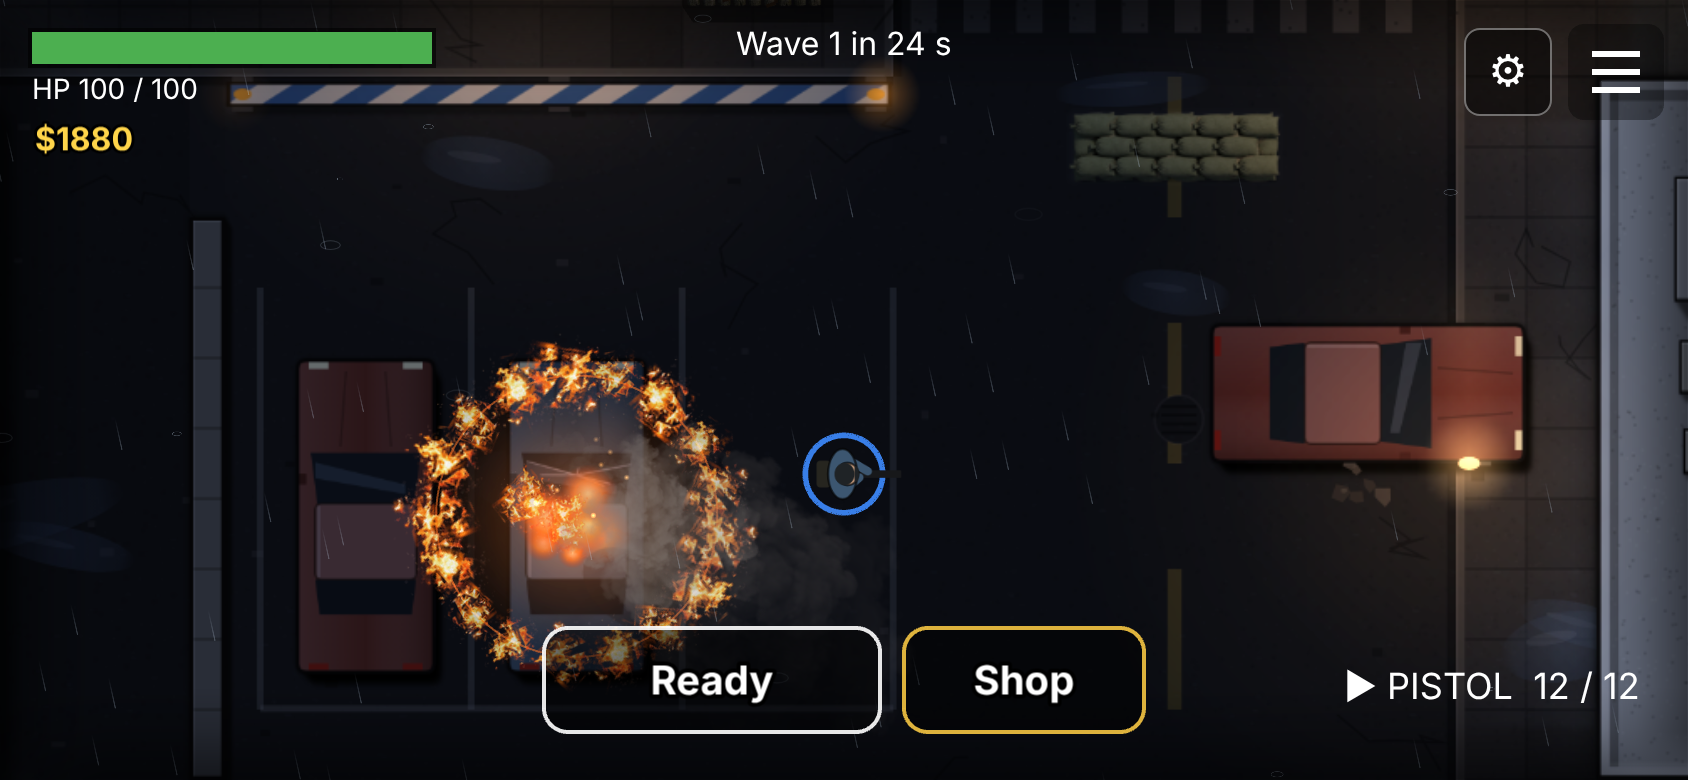
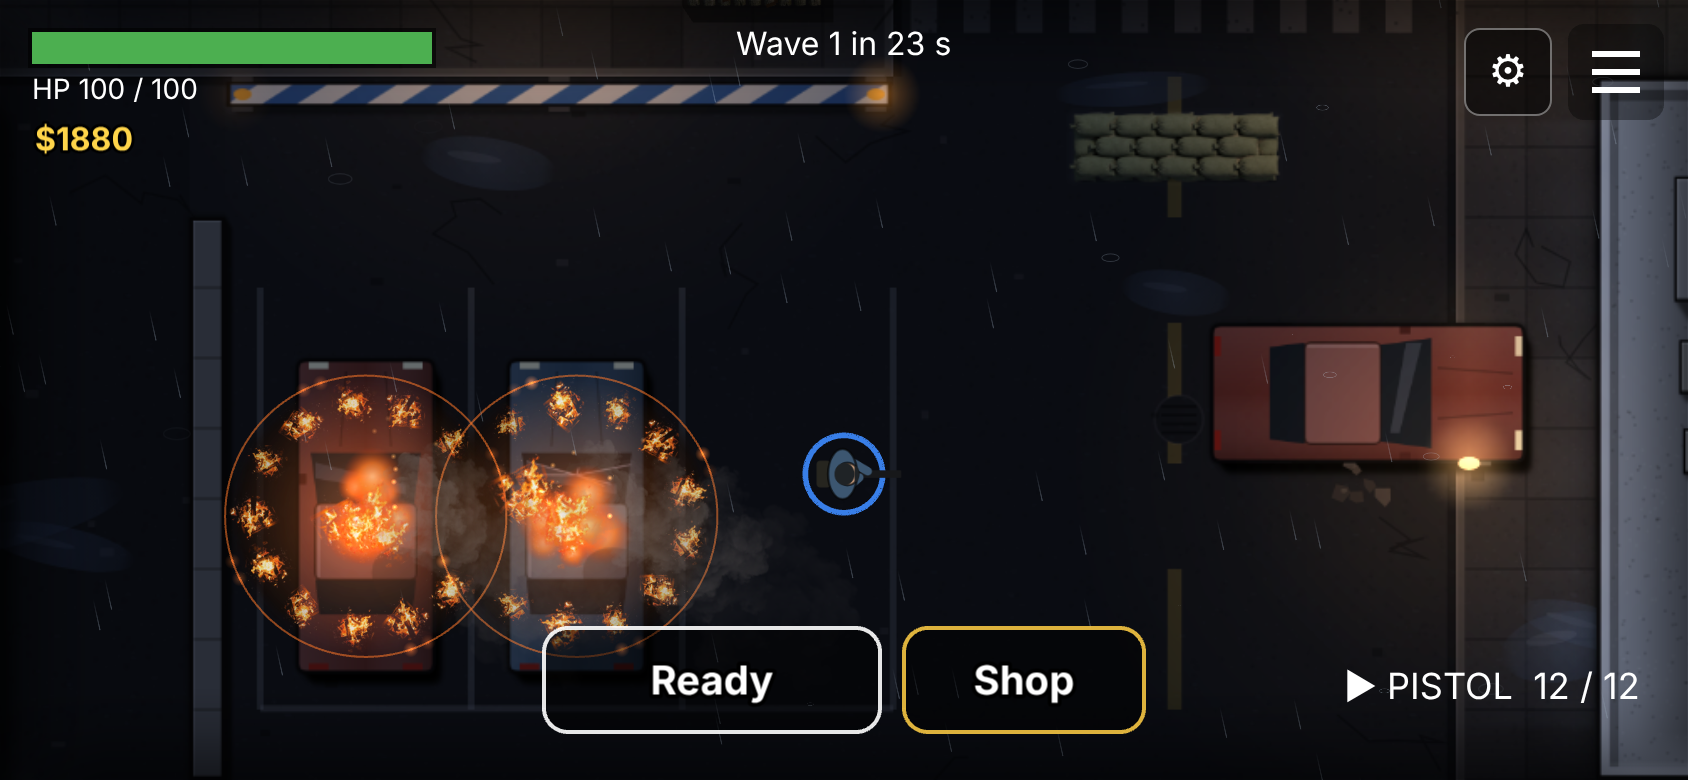
Story 4.11 review fixes: ring flames inside the damage edge, pool from balance, HUD and smoke
- M: ring flames inset so their solid core (at full flicker + damage-tick swell) ends at R;
  core fraction measured by build_sprites.py (objects.json meta.coreFrac), tests on the outer
  edge, ring gaps and touch <=> circleInFire
- L1: barricade sprite pool sized from balance (no throw)
- L2: indexed access in HudScene.drawBurn
- L3: smoke below zombies and survivors, alpha 0.4, puffs up to 3 m
- screenshots re-taken; FPS re-measured

Claude-Session: https://claude.ai/code/session_01CgLgPTkff2Rt3W1ep32G8f

Changed region(s): [[0.1232, 0.4308, 0.4929, 0.8923], [0.5237, 0.0308, 0.5545, 0.0615]]

diff --git a/apps/client/src/render/city/fireRing.test.ts b/apps/client/src/render/city/fireRing.test.ts
@@ -3,18 +3,25 @@ import { circleInFire, loadBalance, type FireRecord } from "@topdown/shared";
 import {
   FIRE_EMBERS,
   RING_FLAMES_MAX,
+  RING_FLAME_CORE_FRAC,
   RING_FLAME_SPACING_M,
   damageTickPulse,
   emberSpot,
   fireRingRadiusM,
   fireRingWidthM,
+  ringFlameCentreRadiusM,
   ringFlameCount,
+  ringFlameMaxCoreM,
+  ringFlameSizeM,
   ringFlameMarksEdge,
   ringFlameSpot,
   strokeFireRings,
 } from "./fireRing";
 
+import objectsJson from "../../../public/assets/atlases/objects.json";
+
 const balance = loadBalance();
+const objectsMeta = (objectsJson as unknown as { meta: { coreFrac: number } }).meta;
 const fire: FireRecord = { name: "f", target: "car", x: 10, y: 8, radiusM: balance.decay.fire.radiusM, stage: 3, index: 0 };
 
 describe("Story 4.8 review M3: the fire ring is the damage edge", () => {
@@ -62,9 +69,11 @@ describe("Story 4.8 review M3: the fire ring is the damage edge", () => {
   });
 });
 
-describe("Story 4.11 (F6): the circle of small flames sits exactly at the damage edge", () => {
-  it("every ring flame is centred on the zone radius, evenly spaced all round", () => {
-    const out = { x: 0, y: 0 };
+describe("Story 4.11 (F6): the circle of small flames ends exactly at the damage edge", () => {
+  const out = { x: 0, y: 0 };
+  const coreAt = (flick: number, pulse: number) => RING_FLAME_CORE_FRAC * ringFlameSizeM(flick, pulse);
+
+  it("review fix: every flame's visible core, at its largest (full flicker + damage-tick swell), ends within 2 cm of R, never past it", () => {
     for (const r of [1, balance.decay.fire.radiusM, 3.5]) {
       const f = { ...fire, radiusM: r };
       const n = ringFlameCount(f);
@@ -72,33 +81,51 @@ describe("Story 4.11 (F6): the circle of small flames sits exactly at the damage
       let sy = 0;
       for (let i = 0; i < n; i++) {
         ringFlameSpot(f, i, n, out);
-        expect(Math.hypot(out.x - f.x, out.y - f.y)).toBeCloseTo(fireRingRadiusM(f), 9);
+        const d = Math.hypot(out.x - f.x, out.y - f.y);
+        let maxOuter = 0;
+        for (const flick of [0, 0.5, 1]) for (const pulse of [0, 0.5, 1]) maxOuter = Math.max(maxOuter, d + coreAt(flick, pulse));
+        expect(maxOuter).toBeLessThanOrEqual(fireRingRadiusM(f) + 0.02);
+        expect(maxOuter).toBeGreaterThanOrEqual(fireRingRadiusM(f) - 0.02); // it still marks the edge
         sx += out.x - f.x;
         sy += out.y - f.y;
       }
-      // evenly spread: the flames' centroid is the fire's centre
-      expect(Math.hypot(sx, sy) / n).toBeLessThan(1e-9);
+      expect(Math.hypot(sx, sy) / n).toBeLessThan(1e-9); // evenly spread round the car
     }
   });
 
-  it("your body touches the flames = you burn: a body reaching a flame's centre is inside the zone (circleInFire), one just short is not", () => {
-    const out = { x: 0, y: 0 };
+  it("review fix: the flames still close the ring (gap between neighbouring cores ≤ 0.8 m at their smallest)", () => {
+    for (const r of [1, balance.decay.fire.radiusM, 3.5]) {
+      const f = { ...fire, radiusM: r };
+      const n = ringFlameCount(f);
+      const chord = 2 * ringFlameCentreRadiusM(f) * Math.sin(Math.PI / n);
+      expect(chord - 2 * coreAt(0, 0)).toBeLessThanOrEqual(0.8);
+    }
+  });
+
+  it("the core fraction covers the art: the build script's measured coreFrac (objects.json) ≤ RING_FLAME_CORE_FRAC", () => {
+    expect(objectsMeta.coreFrac).toBeGreaterThan(0);
+    expect(objectsMeta.coreFrac).toBeLessThanOrEqual(RING_FLAME_CORE_FRAC);
+  });
+
+  it("your body touches the flames = you burn: a body reaching a flame's outer core edge is inside the zone (circleInFire), one just short is not", () => {
     const n = ringFlameCount(fire);
+    const core = ringFlameMaxCoreM();
     for (const r of [balance.player.radiusM, ...Object.values(balance.zombies.types).map((z) => z.radiusM)]) {
       for (let i = 0; i < n; i++) {
         ringFlameSpot(fire, i, n, out);
-        const ux = (out.x - fire.x) / fire.radiusM;
-        const uy = (out.y - fire.y) / fire.radiusM;
-        // body centre outside, its edge 1 mm past the flame centre toward the car: burns
-        expect(circleInFire([fire], out.x + ux * (r - 1e-3), out.y + uy * (r - 1e-3), r)).toBe(true);
-        // its edge 1 mm short of the flame centre: safe
-        expect(circleInFire([fire], out.x + ux * (r + 1e-3), out.y + uy * (r + 1e-3), r)).toBe(false);
+        const d = Math.hypot(out.x - fire.x, out.y - fire.y);
+        const ux = (out.x - fire.x) / d;
+        const uy = (out.y - fire.y) / d;
+        const ex = out.x + ux * core; // the flame's outer visible edge
+        const ey = out.y + uy * core;
+        expect(circleInFire([fire], ex + ux * (r - 1e-3), ey + uy * (r - 1e-3), r)).toBe(true);
+        expect(circleInFire([fire], ex + ux * (r + 0.02 + 1e-3), ey + uy * (r + 0.02 + 1e-3), r)).toBe(false);
       }
     }
   });
 
   it("flame count follows the circumference, capped (pool size per fire)", () => {
-    expect(ringFlameCount(fire)).toBe(Math.round((2 * Math.PI * fire.radiusM) / RING_FLAME_SPACING_M));
+    expect(ringFlameCount(fire)).toBe(Math.round((2 * Math.PI * ringFlameCentreRadiusM(fire)) / RING_FLAME_SPACING_M));
     expect(ringFlameCount({ ...fire, radiusM: 50 })).toBe(RING_FLAMES_MAX);
     expect(ringFlameCount({ ...fire, radiusM: 0.1 })).toBe(6);
   });

diff --git a/apps/client/src/render/city/fireRing.ts b/apps/client/src/render/city/fireRing.ts
@@ -52,26 +52,54 @@ export function strokeFireRings(g: { strokeCircle(x: number, y: number, r: numbe
 }
 
 /**
- * Story 4.11 (designer pick F6): a circle of small flames marks the danger zone. Each flame is
- * centred EXACTLY on the ring (`fireRingRadiusM`: your body touches the flames = you burn), evenly
- * spaced about `RING_FLAME_SPACING_M` apart, at most `RING_FLAMES_MAX` per fire.
+ * Story 4.11 (designer pick F6): a circle of small flames marks the danger zone. Each flame's
+ * visible core ends EXACTLY at the ring (`fireRingRadiusM`: your body touches the flames = you
+ * burn), evenly spaced about `RING_FLAME_SPACING_M` apart, at most `RING_FLAMES_MAX` per fire.
  */
 export const RING_FLAME_SPACING_M = 0.75;
 export const RING_FLAMES_MAX = 24;
-/** A ring flame's drawn size (m) and its flicker. */
-export const RING_FLAME_M = 1.0;
+/** A ring flame's base size (m), its flicker range (× base) and rate, and its swell on the damage tick (fraction). */
+export const RING_FLAME_M = 0.8;
+export const RING_FLAME_FLICK_MIN = 0.8;
+export const RING_FLAME_FLICK_MAX = 1.0;
 export const RING_FLAME_FLICKER_HZ = 8;
+export const RING_PULSE_GROW = 0.15;
+/**
+ * Review fix (M): how far a flame's solid core (alpha > 50 %) reaches from its centre, as a fraction
+ * of the drawn size — the largest over the four flame frames at any rotation, measured by
+ * `tools/art/build_sprites.py` (written into `objects.json › meta.coreFrac`; a test keeps this ≥ it).
+ */
+export const RING_FLAME_CORE_FRAC = 0.45;
+
+/** The drawn size (m) of a ring flame for a flicker value (0..1) and the damage-tick pulse (0..1). */
+export function ringFlameSizeM(flick: number, pulse: number): number {
+  return RING_FLAME_M * (RING_FLAME_FLICK_MIN + (RING_FLAME_FLICK_MAX - RING_FLAME_FLICK_MIN) * flick) * (1 + RING_PULSE_GROW * pulse);
+}
+
+/** The largest drawn size (full flicker, full swell) and its core radius (m). */
+export function ringFlameMaxCoreM(): number {
+  return RING_FLAME_CORE_FRAC * ringFlameSizeM(1, 1);
+}
+
+/**
+ * Review fix (M): the circle the flame CENTRES sit on — inset so every flame's visible core, at its
+ * largest, ends exactly at the damage edge: visible fire never reaches outside the zone ("your body
+ * touches the flames = you burn"). The thin ring line still marks R itself.
+ */
+export function ringFlameCentreRadiusM(f: FireZone): number {
+  return Math.max(0, fireRingRadiusM(f) - ringFlameMaxCoreM());
+}
 
 /** How many flames ring fire `f` (≥ 6, ≤ `RING_FLAMES_MAX`). */
 export function ringFlameCount(f: FireZone): number {
-  const n = Math.round((2 * Math.PI * fireRingRadiusM(f)) / RING_FLAME_SPACING_M);
+  const n = Math.round((2 * Math.PI * ringFlameCentreRadiusM(f)) / RING_FLAME_SPACING_M);
   return Math.max(6, Math.min(RING_FLAMES_MAX, n));
 }
 
-/** Flame `i` of `n` on fire `f`'s ring, into `out` (no allocation): exactly on the zone radius. */
+/** Flame `i` of `n` on fire `f`'s ring, into `out` (no allocation): its outer core edge on the zone radius. */
 export function ringFlameSpot(f: FireZone, i: number, n: number, out: { x: number; y: number }): void {
   const a = ((i + 0.5) / n) * 2 * Math.PI;
-  const r = fireRingRadiusM(f);
+  const r = ringFlameCentreRadiusM(f);
   out.x = f.x + Math.cos(a) * r;
   out.y = f.y + Math.sin(a) * r;
 }

diff --git a/apps/client/src/render/city/CityView.ts b/apps/client/src/render/city/CityView.ts
@@ -17,12 +17,12 @@ import {
   FIRE_RING_COLOR,
   RING_FLAMES_MAX,
   RING_FLAME_FLICKER_HZ,
-  RING_FLAME_M,
   damageTickPulse,
   emberSpot,
   fireRingWidthM,
   ringFlameCount,
   ringFlameMarksEdge,
+  ringFlameSizeM,
   ringFlameSpot,
   strokeFireRings,
 } from "./fireRing";
@@ -48,10 +48,14 @@ const STATIC_DEPTH = 0;
 const DYN_LIGHT_DEPTH = 4.32;
 /** Story 4.8 review M3: the fire ring and its embers lie on the ground: above blood (1), below barricades (3). */
 const FIRE_RING_DEPTH = 1.5;
-/** Story 4.11: ring flames on the ground with the ring; the car's flames above the car (and the dynamic lights), below zombies (5); smoke and sparks above the characters, below the rain. */
+/**
+ * Story 4.11: ring flames on the ground with the ring; the car's flames above the car (and the
+ * dynamic lights); review fix (L3): the smoke above the car flames but BELOW zombies (4.5–5.5) and
+ * survivors (10), so it never hides an approaching zombie; sparks above the characters, below the rain.
+ */
 const RING_FLAME_DEPTH = 1.6;
 const CAR_FLAME_DEPTH = 4.36;
-const SMOKE_DEPTH = 11.5;
+const SMOKE_DEPTH = 4.38;
 const SPARK_DEPTH = 11.6;
 const RAIN_DEPTH = 11.8;
 const VIGNETTE_DEPTH = 11.9;
@@ -107,11 +111,11 @@ const CAR_FLAME_M = 1.1;
 const CAR_FLAME_FLICKER_HZ = 10;
 const SMOKE_PER_FIRE = 6;
 const SMOKE_LOOP_S = 3.2;
-const SMOKE_START_M = 1.5;
-const SMOKE_END_M = 4.2;
+const SMOKE_START_M = 1.2;
+const SMOKE_END_M = 3;
 const SMOKE_DRIFT_X_M = 3.2;
 const SMOKE_DRIFT_Y_M = 2.2;
-const SMOKE_ALPHA = 0.62;
+const SMOKE_ALPHA = 0.4;
 /** Grey smoke lit from below by the fire (a dark tint vanished on the night street). */
 const SMOKE_TINT = 0x9a8f86;
 const SPARKS_PER_FIRE = 10;
@@ -119,8 +123,6 @@ const SPARK_LOOP_S = 1.3;
 const SPARK_M = 0.09;
 const SPARK_RISE_M = 1.8;
 const SPARK_COLOR = 0xffb050;
-/** How much the damage-tick pulse swells the ring flames (fraction of their size). */
-const RING_PULSE_GROW = 0.3;
 
 /**
  * Vignette: four edge bands, each this fraction of the view's smaller side (corners get two). Not
@@ -365,7 +367,7 @@ export class CityView {
           img.setFrame(FLAME_FRAMES[fr] as string);
         }
         const flick = hash(step * 1.3 + i * 13.1 + s * 5.7);
-        const size = RING_FLAME_M * (0.75 + 0.4 * flick) * (1 + RING_PULSE_GROW * pulse);
+        const size = ringFlameSizeM(flick, pulse); // review fix: the size the inset is computed for
         img.setDisplaySize(size, size).setAlpha(0.6 + 0.25 * flick + 0.15 * pulse);
       }
       const cstep = Math.floor(t * CAR_FLAME_FLICKER_HZ);

diff --git a/apps/client/src/render/BuildingView.ts b/apps/client/src/render/BuildingView.ts
@@ -3,7 +3,7 @@ import { BUILD_GRID_M, MAX_PLAYERS, buildingStats, buildingTypeIds, footprint, t
 import type { Placement } from "../scenes/placement";
 import { damageStage, darken, hpChecksum } from "./buildingLook";
 import { NIGHT_DARKEN, castShadow, raisedBevel } from "./city/raisedLook";
-import { barricadeTint, barricadeTransform, type SpriteTransform } from "./barricadeLook";
+import { barricadePoolSize, barricadeTint, barricadeTransform, type SpriteTransform } from "./barricadeLook";
 import { ATLAS_OBJECTS, OBJ_BARRICADE, ensureObjectsAtlas } from "./city/objectsAtlas";
 
 /** Placeholder wood look (Story 9 replaces it): planks across the long side, a dark outline; night-darkened (Story 4.9). */
@@ -15,8 +15,6 @@ const OUTLINE_M = 0.06;
 const BARRICADE_HEIGHT_M = 1.6;
 /** Story 4.11: the type drawn with the palisade art (others keep the plank box; turrets add their plate on top). */
 const BARRICADE_TYPE = "wood_barricade";
-/** Story 4.11: pooled barricade sprites: every player's whole allowance (checked against balance at construction). */
-export const MAX_BARRICADE_SPRITES = 24;
 /** Sprites sit on the building layer; cracks just above them, under turrets (3.5). */
 const CRACK_DEPTH = 3.05;
 /** The placement preview's ghost of the turned art, under the coloured box. */
@@ -73,12 +71,10 @@ export class BuildingView {
   private readonly box: Box = { minX: 0, minY: 0, maxX: 0, maxY: 0 };
 
   constructor(scene: Phaser.Scene, balance?: Readonly<Balance>) {
-    if (balance && balance.buildings.maxPerPlayer * MAX_PLAYERS > MAX_BARRICADE_SPRITES) {
-      throw new Error(`buildings.maxPerPlayer × ${MAX_PLAYERS} exceeds MAX_BARRICADE_SPRITES ${MAX_BARRICADE_SPRITES}`);
-    }
     ensureObjectsAtlas(scene);
+    const pool = barricadePoolSize(balance?.buildings.maxPerPlayer, MAX_PLAYERS); // review fix L1: sized from balance, never throws
     this.placed = scene.add.graphics().setDepth(BUILDING_DEPTH);
-    for (let i = 0; i < MAX_BARRICADE_SPRITES; i++) this.sprites.push(scene.add.image(0, 0, ATLAS_OBJECTS, OBJ_BARRICADE).setDepth(BUILDING_DEPTH).setVisible(false));
+    for (let i = 0; i < pool; i++) this.sprites.push(scene.add.image(0, 0, ATLAS_OBJECTS, OBJ_BARRICADE).setDepth(BUILDING_DEPTH).setVisible(false));
     this.cracks = scene.add.graphics().setDepth(CRACK_DEPTH);
     this.ghost = scene.add.image(0, 0, ATLAS_OBJECTS, OBJ_BARRICADE).setDepth(PREVIEW_DEPTH).setAlpha(GHOST_ALPHA).setVisible(false);
     this.bars = scene.add.graphics().setDepth(BAR_DEPTH);

diff --git a/apps/client/src/scenes/HudScene.ts b/apps/client/src/scenes/HudScene.ts
@@ -593,9 +593,14 @@ export class HudScene extends Phaser.Scene {
       t.setPosition(sx, sy - p * FIRE_POP_RISE_PX * k).setAlpha(1 - p * p).setVisible(true);
     }
     const a = m.burnGlow;
-    const [top, bottom, left, right] = this.edgeGlow as [Phaser.GameObjects.Image, Phaser.GameObjects.Image, Phaser.GameObjects.Image, Phaser.GameObjects.Image];
+    // review fix L2: indexed access (no array destructuring / iterator per frame)
+    const glow = this.edgeGlow;
+    const top = glow[0] as Phaser.GameObjects.Image;
+    const bottom = glow[1] as Phaser.GameObjects.Image;
+    const left = glow[2] as Phaser.GameObjects.Image;
+    const right = glow[3] as Phaser.GameObjects.Image;
     if (a <= 0) {
-      if (top.visible) for (const g of this.edgeGlow) g.setVisible(false);
+      if (top.visible) for (let i = 0; i < glow.length; i++) (glow[i] as Phaser.GameObjects.Image).setVisible(false);
       return;
     }
     const w = this.scale.width;
@@ -605,7 +610,7 @@ export class HudScene extends Phaser.Scene {
     bottom.setPosition(w / 2, h - band / 2).setDisplaySize(w, band);
     left.setPosition(band / 2, h / 2).setDisplaySize(h, band);
     right.setPosition(w - band / 2, h / 2).setDisplaySize(h, band);
-    for (const g of this.edgeGlow) g.setAlpha(a).setVisible(true);
+    for (let i = 0; i < glow.length; i++) (glow[i] as Phaser.GameObjects.Image).setAlpha(a).setVisible(true);
   }
 
   /** Story 2.9: bold white name tag with a dark stroke. */

diff --git a/apps/client/src/render/barricadeLook.test.ts b/apps/client/src/render/barricadeLook.test.ts
@@ -1,6 +1,6 @@
 import { describe, expect, it } from "vitest";
 import { buildingStats, footprint, loadBalance, type Box } from "@topdown/shared";
-import { BARRICADE_DAMAGE_DARKEN, BARRICADE_NIGHT_DARKEN, barricadeTint, barricadeTransform, framePointToWorld } from "./barricadeLook";
+import { BARRICADE_DAMAGE_DARKEN, BARRICADE_NIGHT_DARKEN, DEFAULT_BARRICADE_SPRITES, barricadePoolSize, barricadeTint, barricadeTransform, framePointToWorld } from "./barricadeLook";
 import { darken } from "./buildingLook";
 
 const balance = loadBalance();
@@ -66,5 +66,14 @@ describe("Story 4.11: the wood barricade art turns with its placement", () => {
       last = g;
     }
     expect(barricadeTint(2)).toBe(barricadeTint(1));
+  });
+});
+
+describe("Story 4.11 review fix L1: the barricade pool is sized from balance", () => {
+  it("holds every player's allowance for any legal maxPerPlayer (7 → 28, the schema's 64 → 256) and the default without a balance", () => {
+    expect(barricadePoolSize(balance.buildings.maxPerPlayer, 4)).toBe(balance.buildings.maxPerPlayer * 4);
+    expect(barricadePoolSize(7, 4)).toBe(28);
+    expect(barricadePoolSize(64, 4)).toBe(256);
+    expect(barricadePoolSize(undefined, 4)).toBe(DEFAULT_BARRICADE_SPRITES);
   });
 });

diff --git a/apps/client/src/render/barricadeLook.ts b/apps/client/src/render/barricadeLook.ts
@@ -63,3 +63,15 @@ export function barricadeTint(hpFrac: number): number {
   const f = Math.min(1, Math.max(0, hpFrac));
   return darken(darken(0xffffff, BARRICADE_NIGHT_DARKEN), (1 - f) * BARRICADE_DAMAGE_DARKEN);
 }
+
+/** Pool size when no balance is given (4 players × 6). */
+export const DEFAULT_BARRICADE_SPRITES = 24;
+
+/**
+ * Review fix (L1): the barricade sprite pool holds every player's whole allowance from the balance
+ * (`maxPerPlayer × players`), so a balance change never crashes the scene; without a balance, the default.
+ */
+export function barricadePoolSize(maxPerPlayer: number | undefined, players: number): number {
+  if (maxPerPlayer === undefined || !(maxPerPlayer > 0)) return DEFAULT_BARRICADE_SPRITES;
+  return Math.ceil(maxPerPlayer) * players;
+}

diff --git a/tools/art/build_sprites.py b/tools/art/build_sprites.py
@@ -156,6 +156,18 @@ def build(raw_dir, out_dir):
     sheet = Image.new("RGBA", (width, height), (0, 0, 0, 0))
     for name, (fx, fy, w, h) in placed.items():
         sheet.paste(frames[name], (fx, fy))
+    # Story 4.11 review fix: how far each flame's solid core (alpha > 50 %) reaches from its centre, as a
+    # fraction of the frame width, at any rotation (radial). The game insets the ring flames by it.
+    core = 0.0
+    for name, img in frames.items():
+        if not name.startswith("fx_flame_"):
+            continue
+        w, h = img.size
+        a = img.getchannel("A").load()
+        for yy in range(h):
+            for xx in range(w):
+                if a[xx, yy] > 127:
+                    core = max(core, ((xx + 0.5 - w / 2) ** 2 + (yy + 0.5 - h / 2) ** 2) ** 0.5 / w)
     os.makedirs(out_dir, exist_ok=True)
     sheet.save(os.path.join(out_dir, "objects.png"), optimize=True)
     meta = {
@@ -165,7 +177,8 @@ def build(raw_dir, out_dir):
             for n, (fx, fy, w, h) in sorted(placed.items())
         },
         "meta": {"app": "tools/art/build_sprites.py", "image": "objects.png", "format": "RGBA8888",
-                 "size": {"w": width, "h": height}, "scale": "1"},
+                 "size": {"w": width, "h": height}, "scale": "1",
+                 "coreFrac": round(core + 0.0005, 3)},
     }
     with open(os.path.join(out_dir, "objects.json"), "w") as f:
         json.dump(meta, f, indent=1)

diff --git a/_bmad-output/implementation-artifacts/4-11-stage-object-readability-pass.md b/_bmad-output/implementation-artifacts/4-11-stage-object-readability-pass.md
@@ -137,9 +137,31 @@ Claude Opus 5.5 (claude-opus-5-5), builder, worktree `story-4-11`.
 - `apps/client/src/render/city/fireRing.ts`, `fireRing.test.ts`, `CityView.ts`, `spriteAtlas.ts`
 - `apps/client/src/render/BuildingView.ts`, `PlayerView.ts`, `fireCue.ts`
 - `apps/client/src/scenes/BootScene.ts`, `GameScene.ts`, `HudScene.ts`, `hudModel.ts`
-- `tools/art/build_sprites.py`, `tools/art/prompts.json` (new)
+- `tools/art/build_sprites.py`, `tools/art/prompts.json` (new; review: `meta.coreFrac`)
 - `docs/art/4-11/ingame/*.png` (new: 5 screenshots)
+
+## Senior Developer Review (AI)
+
+Fresh reviewer, 2026-11-23, on 6cc4716: one medium, three lows (L3 a design decision by the main session). All fixed on `story-4-11`.
+
+### Review fixes (2026-11-23)
+
+| # | Sev | Finding | Fix |
+| --- | --- | --- | --- |
+| M | M | Ring flame centres sat on R but each flame was drawn 0.75–1.5 m wide, so its solid core reached 0.2–0.35 m past R: a body touching visible flames could take no damage (the test checked centres only). | Flames now sit so their solid core (alpha > 50 %) ends at R at their LARGEST size (full flicker + damage-tick swell): `ringFlameCentreRadiusM = R − RING_FLAME_CORE_FRAC × ringFlameSizeM(1, 1)`. `RING_FLAME_CORE_FRAC` 0.45 ≥ the art's measured 0.44 (`build_sprites.py` writes `objects.json › meta.coreFrac`; a test keeps the constant ≥ it). Flames a bit smaller and calmer (base 0.8 m, flicker 0.8–1.0, swell 15 %; max 0.92 m, core 0.41 m; centres at 1.59 m for R 2 m, 13 flames). CityView uses the same `ringFlameSizeM`. The thin 2 px ring line still marks R. Tests: every flame's outer core edge ∈ [R − 2 cm, R + 2 cm] for all flicker/swell values; neighbouring cores leave ≤ 0.8 m gaps; touching a flame's outer edge ⇔ `circleInFire`. |
+| L1 | L | `BuildingView` threw if `maxPerPlayer × 4 > 24` (schema allows 64). | Pool sized from balance: `barricadePoolSize(maxPerPlayer, MAX_PLAYERS)` (default 24 without a balance); no throw. Test (6 → 24, 7 → 28, 64 → 256). |
+| L2 | L | `HudScene.drawBurn` destructured the glow array and used `for…of` every frame. | Indexed access. |
+| L3 | L | Smoke above characters (depth 11.5), up to 4.2 m at alpha 0.62: could hide zombies and cost fill. | Smoke at depth 4.38 (above the car and its flames, below crawlers 4.5, zombies and survivors), max alpha 0.4, puffs 1.2 → 3 m. |
+
+**Mutations proven (each new test once, restored):** N1 no inset (2 tests fail); N2 inset ignores the swell; N3 core fraction 0.40 < the art's; N4 spacing 1.5 m (ring gaps); N5 pool not sized from balance. The build's M1–M12 still apply (M1 now fails the outer-edge tests).
+
+**FPS, `?stress=150` next to both burning cars, headless 844 × 390 DPR 2:** 12.6 / 12.5 / 12.4 (load 1.30 → 3.35) and 14.5 / 13.2 / 12.5 (load 3.35 → 3.67; other work on the box). Before the story 13.0–16.1, after the first build 12.2–12.6: roughly unchanged by the fixes on this busy box; a GPU check is still a 4.10 item.
+
+**Screenshots updated** (`docs/art/4-11/ingame/`): `burning-car-flame-circle.png`, `survivor-burning.png`, `wide.png` (and the other two re-shot in the same run).
+
+**Gate:** typecheck, lint, test (194 files passed, 1 skipped; 1,418 tests passed, 3 skipped), build green; load 3.37 before, 3.78 after.
 
 ## Change Log
 
 - 2026-11-23: Story written (gds-create-story, designer decisions recorded) and built: Meshy sprites + `atlas_objects` (sandbags S2, barricade B6, flames, smoke), turned barricade sprites, F6 fire ring/flames/smoke/sparks, burning-survivor cues (flames, smoke, embers, my edge glow and "-N"), BURNING_TINT removed; tests + 12 mutations; browser screenshots; FPS before/after. Status review.
+- 2026-11-23: Review fixes: ring flames inset so their visible core ends at R (M), barricade pool from balance (L1), no per-frame destructuring in the HUD (L2), smoke under the characters and lighter (L3); tests + 5 mutations; screenshots and FPS re-taken.
